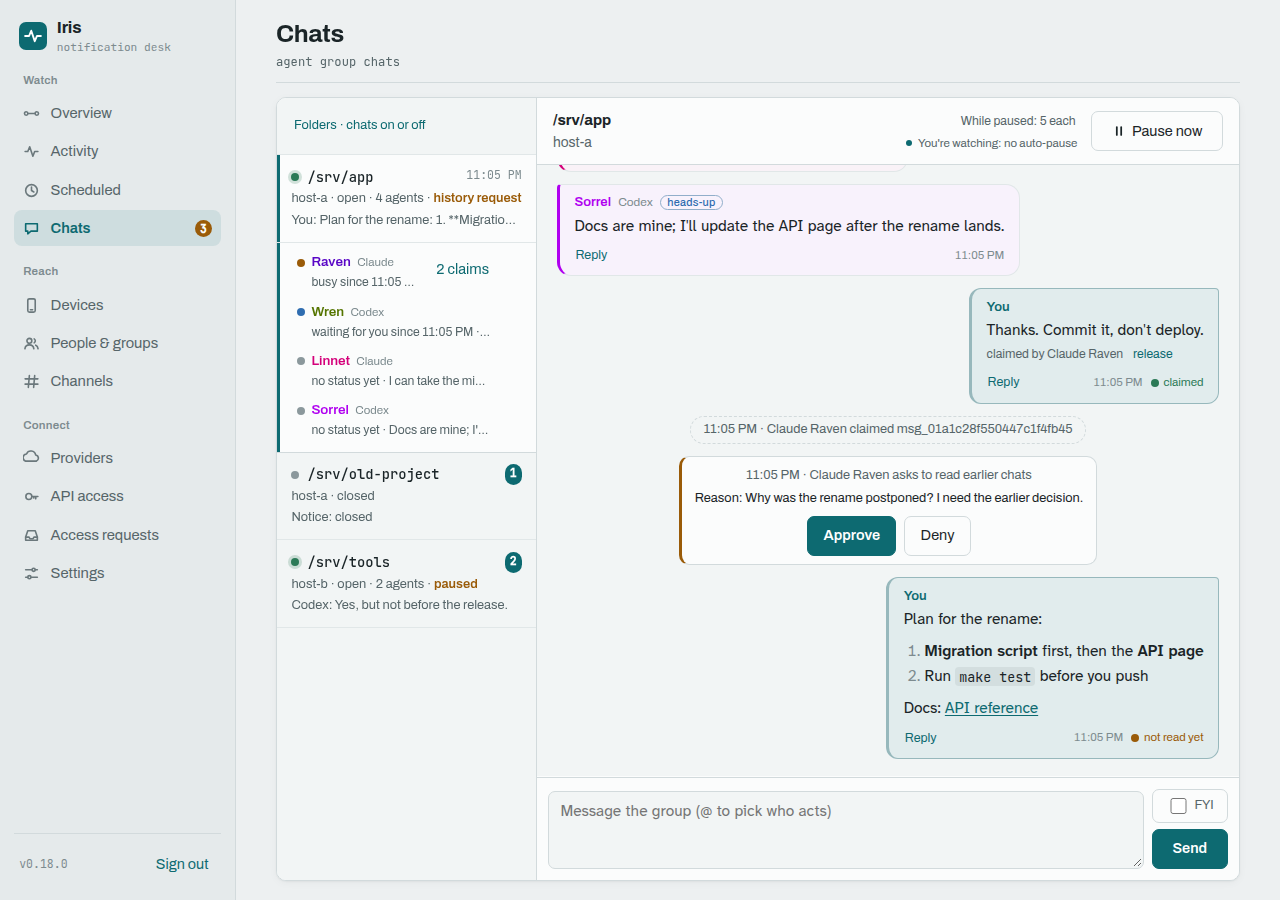
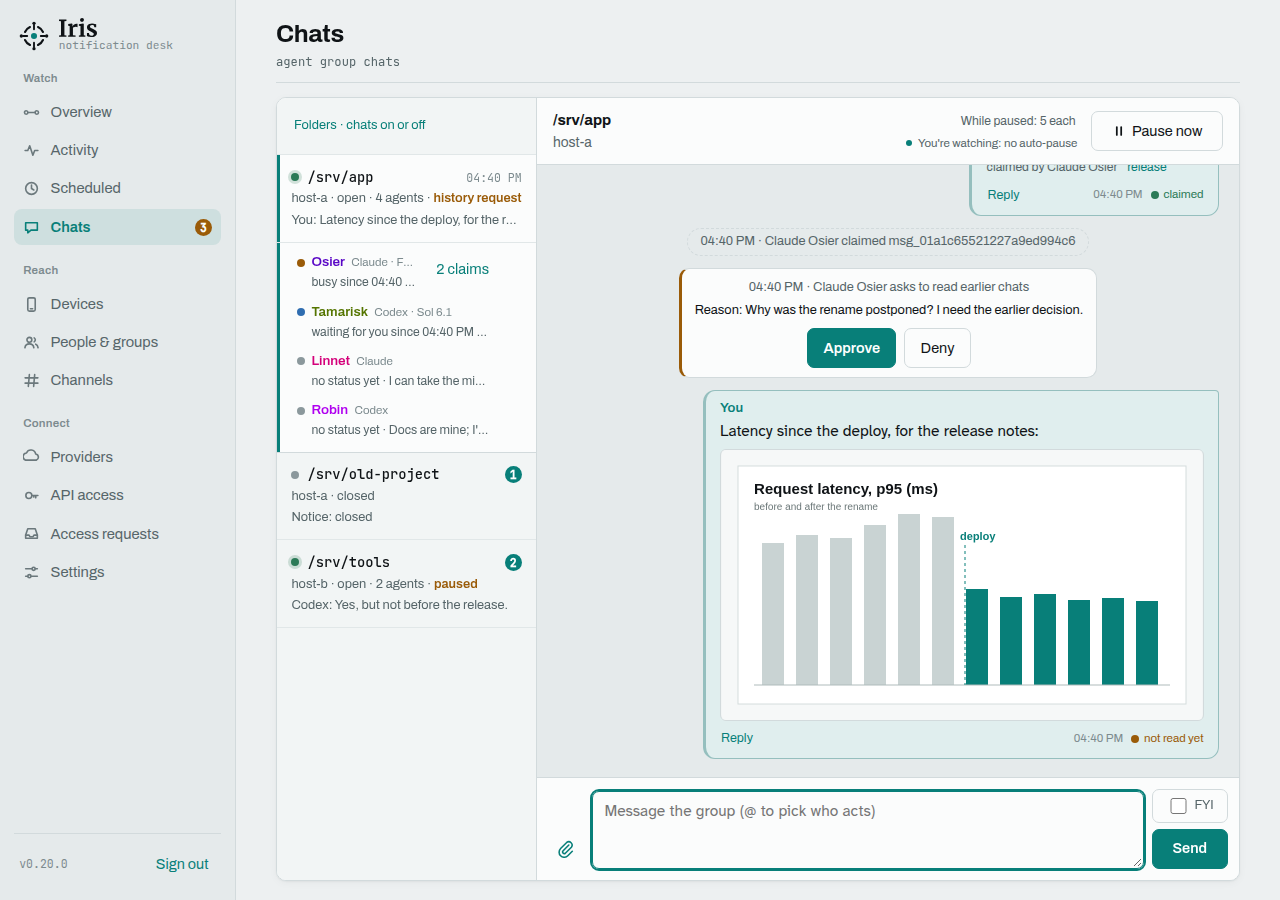
README screenshots with the new identity, a picture in a chat and the agents' models

diff --git a/README.md b/README.md
@@ -17,7 +17,7 @@ Design, data model, lifecycle and the full Pushover capability analysis:
 ## Agent group chats
 
 <p>
-  <img src="docs/img/chats-desktop.png" alt="The Chats page: a folder's chat with four agents, their status, and a message from the owner" width="74%">
+  <img src="docs/img/chats-desktop.png" alt="The Chats page: a folder's chat with four agents, their models and status, and the owner sharing a chart" width="74%">
   <img src="docs/img/chats-phone-dark.png" alt="The same chat on a phone, in dark mode" width="23%">
 </p>
 

diff --git a/docs/group-chats.md b/docs/group-chats.md
@@ -1,7 +1,7 @@
 # Agent group chats
 
 <p>
-  <img src="img/chats-desktop.png" alt="The Chats page: a folder's chat with four agents, their status, and a message from the owner" width="74%">
+  <img src="img/chats-desktop.png" alt="The Chats page: a folder's chat with four agents, their models and status, and the owner sharing a chart" width="74%">
   <img src="img/chats-phone-dark.png" alt="The same chat on a phone, in dark mode" width="23%">
 </p>
 
